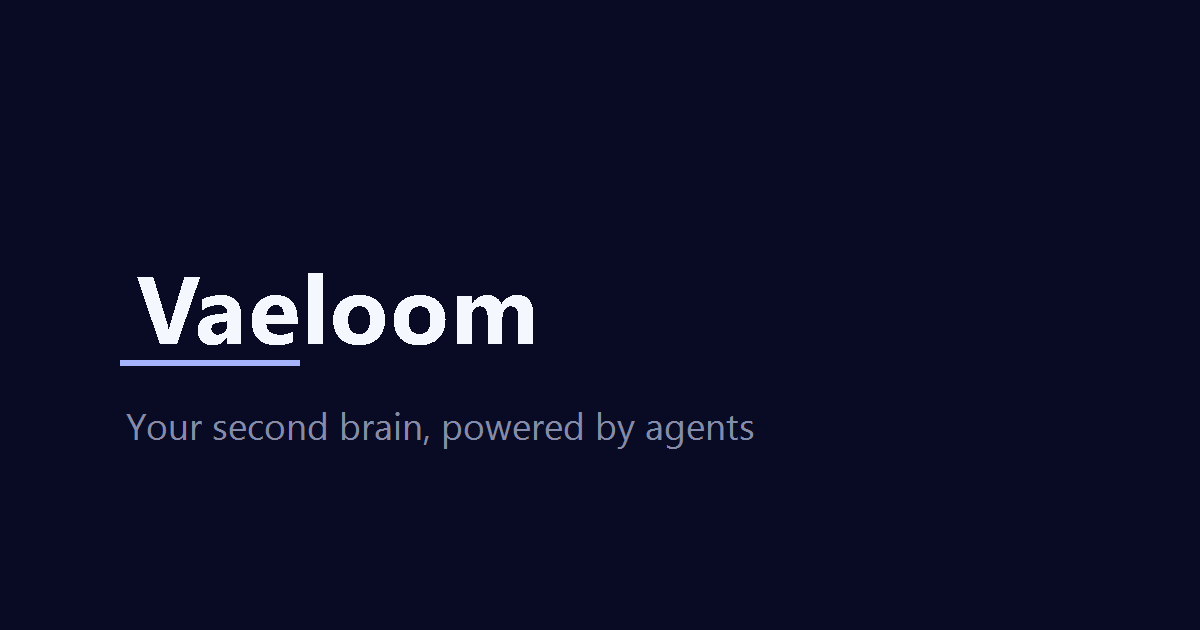
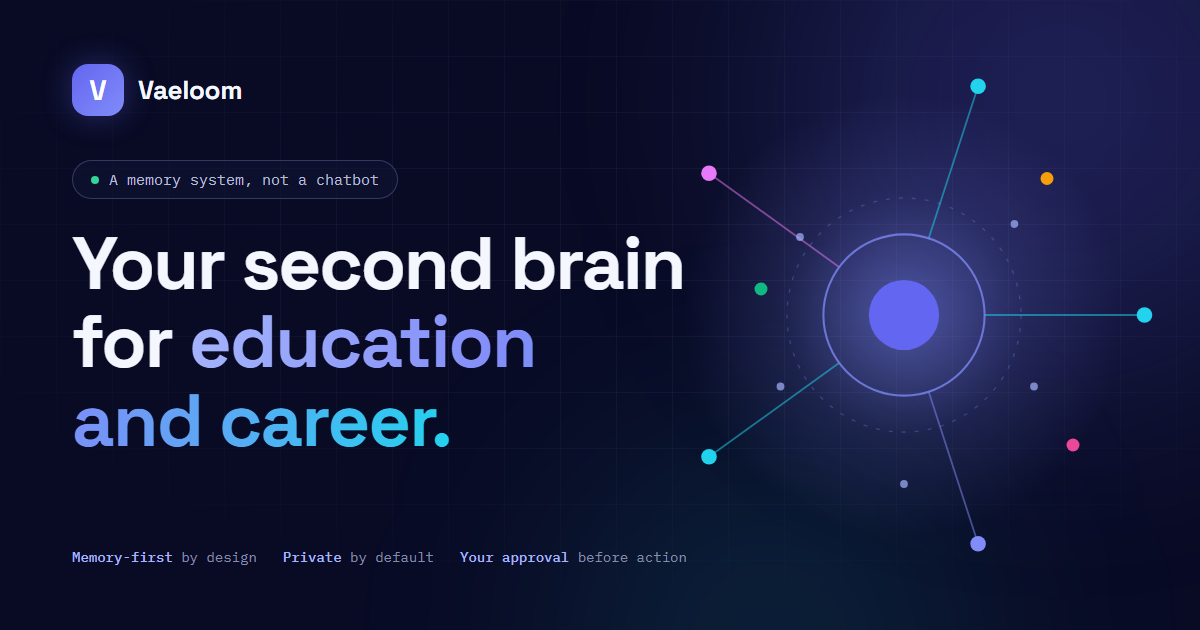
feat(web): landing QA hardening — OG image, axe-clean a11y, e2e coverage
- regenerate og-image.png (1200x630 brand composition: gradient
  headline, memory-core motif, trust line) replacing stale asset
- fix axe serious violations found in live-page audit: chatbot
  contrast card drops opacity-80 (AA both themes); Organization +
  Career ol>li semantics restored (Reveal moved inside li)
- add e2e/landing.spec.ts: functional (product truth, dead-link and
  SOC-2 regression guards, sr-only narrative presence), axe gates for
  dark+light (zero serious/critical, wcag2a/2aa/21aa/22aa), and 4
  deterministic visual baselines captured under reducedMotion so the
  static SVG fallbacks render instead of frame-varying WebGL
- verified: 7/7 e2e green, 43/43 jest, Firefox smoke (3 canvases,
  0 errors, 0 overflow)

diff --git a/apps/web/src/components/landing/sections/ProductStorySections.tsx b/apps/web/src/components/landing/sections/ProductStorySections.tsx
@@ -117,17 +117,19 @@ export function OrganizationSection() {
         />
         <ol className="mx-auto mt-12 grid max-w-5xl gap-3 sm:grid-cols-2 lg:grid-cols-3">
           {ORGANIZATION.flow.map((f, i) => (
-            <Reveal key={f.step} delay={i * 0.06}>
-              <li className="h-full rounded-2xl border border-border-subtle bg-background/70 p-5">
-                <span className="font-mono text-xs font-semibold text-primary-400">
-                  {String(i + 1).padStart(2, '0')}
-                </span>
-                <p className="mt-2 text-sm font-bold text-text">{f.step}</p>
-                <p className="mt-1 font-mono text-[11px] leading-relaxed text-text-muted">
-                  {f.detail}
-                </p>
-              </li>
-            </Reveal>
+            <li key={f.step} className="h-full">
+              <Reveal delay={i * 0.06} className="h-full">
+                <div className="h-full rounded-2xl border border-border-subtle bg-background/70 p-5">
+                  <span className="font-mono text-xs font-semibold text-primary-400">
+                    {String(i + 1).padStart(2, '0')}
+                  </span>
+                  <p className="mt-2 text-sm font-bold text-text">{f.step}</p>
+                  <p className="mt-1 font-mono text-[11px] leading-relaxed text-text-muted">
+                    {f.detail}
+                  </p>
+                </div>
+              </Reveal>
+            </li>
           ))}
         </ol>
         <p className="mt-8 text-center text-xs text-text-muted">
@@ -276,22 +278,24 @@ export function CareerSection() {
         <SectionHeading id="career-title" eyebrow={CAREER.eyebrow} title={CAREER.title} />
         <ol className="mx-auto mt-12 max-w-5xl space-y-2">
           {CAREER.stages.map((s, i) => (
-            <Reveal key={s.name} delay={i * 0.05}>
-              <li className="group relative flex items-start gap-4 rounded-2xl border border-border-subtle bg-background/70 p-4 transition-colors hover:border-primary-500/30 sm:p-5">
-                <div className="flex flex-col items-center self-stretch" aria-hidden="true">
-                  <span className="flex h-9 w-9 shrink-0 items-center justify-center rounded-xl border border-primary-500/30 bg-surface-elevated font-mono text-xs font-bold text-primary-300">
-                    {String(i + 1).padStart(2, '0')}
-                  </span>
-                  {i < CAREER.stages.length - 1 ? (
-                    <span className="mt-1 w-px flex-1 bg-gradient-to-b from-primary-400/50 to-transparent" />
-                  ) : null}
+            <li key={s.name}>
+              <Reveal delay={i * 0.05}>
+                <div className="group relative flex items-start gap-4 rounded-2xl border border-border-subtle bg-background/70 p-4 transition-colors hover:border-primary-500/30 sm:p-5">
+                  <div className="flex flex-col items-center self-stretch" aria-hidden="true">
+                    <span className="flex h-9 w-9 shrink-0 items-center justify-center rounded-xl border border-primary-500/30 bg-surface-elevated font-mono text-xs font-bold text-primary-300">
+                      {String(i + 1).padStart(2, '0')}
+                    </span>
+                    {i < CAREER.stages.length - 1 ? (
+                      <span className="mt-1 w-px flex-1 bg-gradient-to-b from-primary-400/50 to-transparent" />
+                    ) : null}
+                  </div>
+                  <div>
+                    <p className="text-sm font-bold text-text">{s.name}</p>
+                    <p className="mt-1 text-sm leading-relaxed text-text-secondary">{s.body}</p>
+                  </div>
                 </div>
-                <div>
-                  <p className="text-sm font-bold text-text">{s.name}</p>
-                  <p className="mt-1 text-sm leading-relaxed text-text-secondary">{s.body}</p>
-                </div>
-              </li>
-            </Reveal>
+              </Reveal>
+            </li>
           ))}
         </ol>
         <p className="mt-8 text-center text-xs font-medium text-success">{CAREER.note}</p>

diff --git a/apps/web/e2e/landing.spec.ts b/apps/web/e2e/landing.spec.ts
@@ -1,0 +1,90 @@
+import { expect, test } from '@playwright/test';
+import AxeBuilder from '@axe-core/playwright';
+
+/**
+ * Landing (/) — the marketing surface.
+ *
+ * Functional + a11y gates run in CI like quality.spec. Visual baselines
+ * are captured with `reducedMotion: 'reduce'` so the static SVG scene
+ * fallbacks render instead of WebGL canvases — deterministic frames
+ * (canvas pixels vary per rAF, which would make baselines flaky).
+ * The reduced-motion pass doubles as the WCAG fallback-mode check:
+ * if the page stops telling its story without 3D, these snapshots show it.
+ */
+
+test.describe('landing functional', () => {
+  test('renders product truth with working CTAs and anchors', async ({ page }) => {
+    await page.goto('/', { waitUntil: 'networkidle' });
+    await page.evaluate(() => document.fonts.ready);
+
+    await expect(page.getByRole('heading', { level: 1 })).toContainText('second brain');
+
+    // Primary conversion path present (hero + final CTA at minimum)
+    const signups = page.locator('a[href="/signup"]');
+    await expect(signups.first()).toBeVisible();
+    expect(await signups.count()).toBeGreaterThanOrEqual(2);
+
+    // Every nav anchor must resolve to a real section id — no dead links
+    const ids = await page.evaluate(() =>
+      Array.from(document.querySelectorAll('[id]')).map((el) => el.id),
+    );
+    for (const hash of ['#how-it-works', '#memory', '#agents', '#career', '#enterprise']) {
+      expect(ids, `${hash} target exists`).toContain(hash.slice(1));
+    }
+    // Regression guards: dead pricing anchor and false SOC 2 claim stay gone
+    await expect(page.locator('a[href="#pricing"]')).toHaveCount(0);
+    expect(await page.content()).not.toMatch(/SOC ?2/i);
+
+    // No information may be 3D-gated: canvas scenes are aria-hidden and
+    // every canvas has a static fallback + sr-only narrative in the DOM
+    const narratives = await page.getByText(/Interactive knowledge graph/).count();
+    expect(narratives).toBeGreaterThanOrEqual(1);
+  });
+});
+
+for (const theme of ['dark', 'light'] as const) {
+  test.describe(`landing a11y (${theme})`, () => {
+    test.use({ colorScheme: theme });
+    test('axe: zero serious/critical', async ({ page }) => {
+      await page.addInitScript((t) => localStorage.setItem('theme', t), theme);
+      await page.goto('/', { waitUntil: 'networkidle' });
+      await page.evaluate(async () => {
+        const h = document.body.scrollHeight;
+        for (let y = 0; y < h; y += 800) {
+          window.scrollTo(0, y);
+          await new Promise((r) => setTimeout(r, 80));
+        }
+        window.scrollTo(0, 0);
+      });
+      await page.waitForTimeout(1000);
+      const results = await new AxeBuilder({ page })
+        .withTags(['wcag2a', 'wcag2aa', 'wcag21aa', 'wcag22aa'])
+        .analyze();
+      const bad = results.violations.filter(
+        (v) => v.impact === 'serious' || v.impact === 'critical',
+      );
+      expect(bad.map((v) => `${v.id}(${v.nodes.length})`)).toEqual([]);
+    });
+  });
+}
+
+test.describe('landing visual baselines (reduced motion — static fallbacks)', () => {
+  for (const theme of ['dark', 'light'] as const) {
+    for (const vp of [375, 1440] as const) {
+      test.describe(`${theme} ${vp}`, () => {
+        test.use({
+          colorScheme: theme,
+          reducedMotion: 'reduce',
+          viewport: { width: vp, height: 850 },
+        });
+        test(`landing ${theme} ${vp}`, async ({ page }) => {
+          await page.addInitScript((t) => localStorage.setItem('theme', t), theme);
+          await page.goto('/', { waitUntil: 'networkidle' });
+          await page.evaluate(() => document.fonts.ready);
+          await page.waitForTimeout(1200);
+          await expect(page).toHaveScreenshot(`landing-${theme}-${vp}.png`, { fullPage: true });
+        });
+      });
+    }
+  }
+});

diff --git a/apps/web/src/components/landing/sections/ProductSections.tsx b/apps/web/src/components/landing/sections/ProductSections.tsx
@@ -42,10 +42,10 @@ export function ProductDifference() {
           title={DIFFERENCE.title}
         />
         <div className="mx-auto mt-12 grid max-w-4xl gap-6 md:grid-cols-[0.8fr_auto_1.2fr] md:items-stretch">
-          {/* Chatbot side */}
+          {/* Chatbot side — visually subdued, still AA-readable */}
           <Reveal>
-            <div className="h-full rounded-2xl border border-border-subtle bg-surface-50 p-6 opacity-80">
-              <h3 className="font-mono text-xs uppercase tracking-widest text-text-muted">
+            <div className="h-full rounded-2xl border border-border-subtle bg-surface-50 p-6">
+              <h3 className="font-mono text-xs uppercase tracking-widest text-text-secondary">
                 {DIFFERENCE.chatbot.label}
               </h3>
               <ol className="mt-5 space-y-3">
@@ -56,7 +56,7 @@ export function ProductDifference() {
                   </li>
                 ))}
               </ol>
-              <p className="mt-6 border-t border-border-subtle pt-4 text-xs leading-relaxed text-text-muted">
+              <p className="mt-6 border-t border-border-subtle pt-4 text-xs leading-relaxed text-text-secondary">
                 {DIFFERENCE.chatbot.verdict}
               </p>
             </div>
